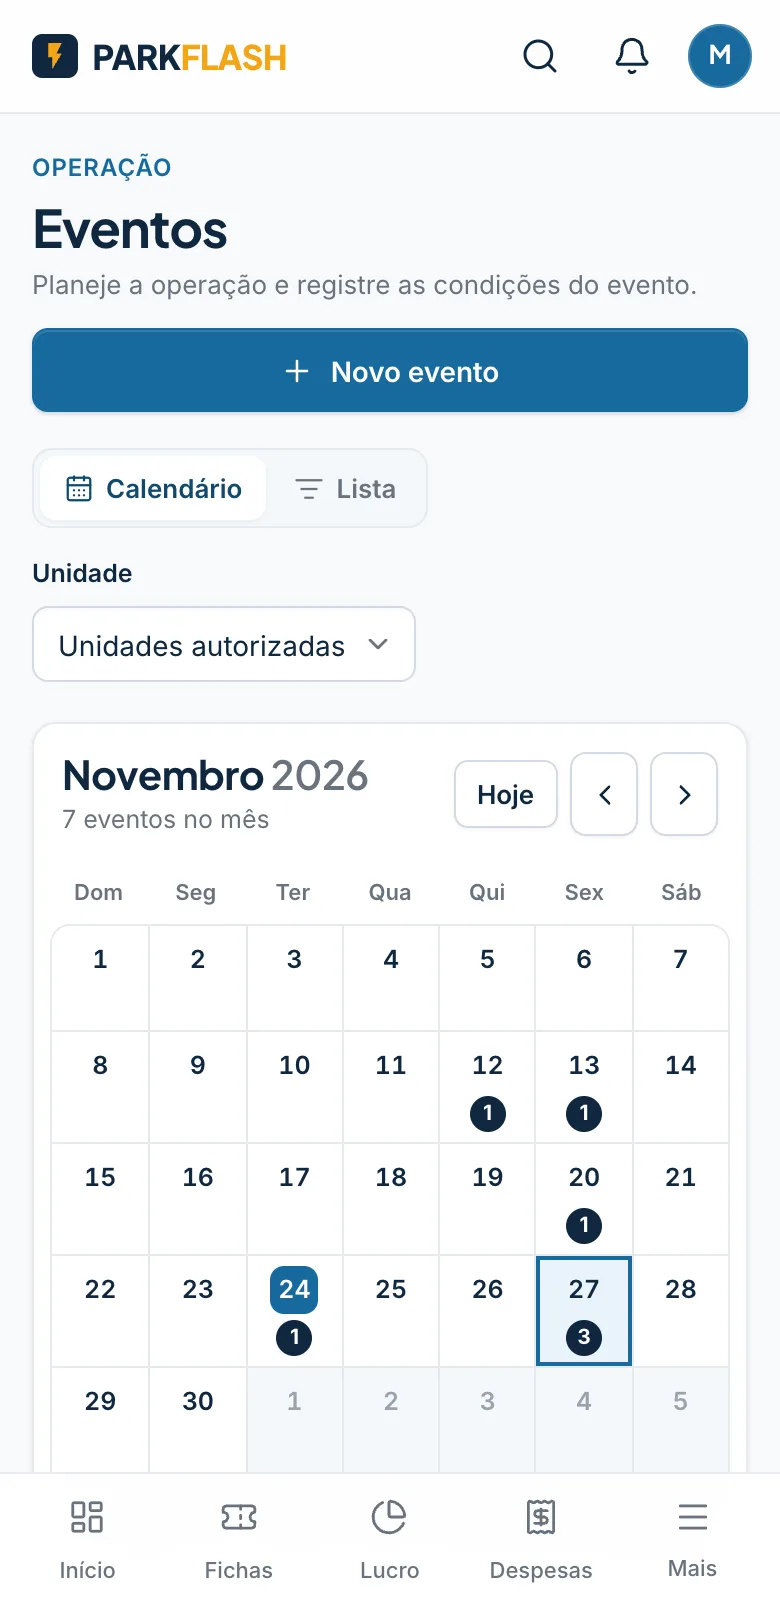
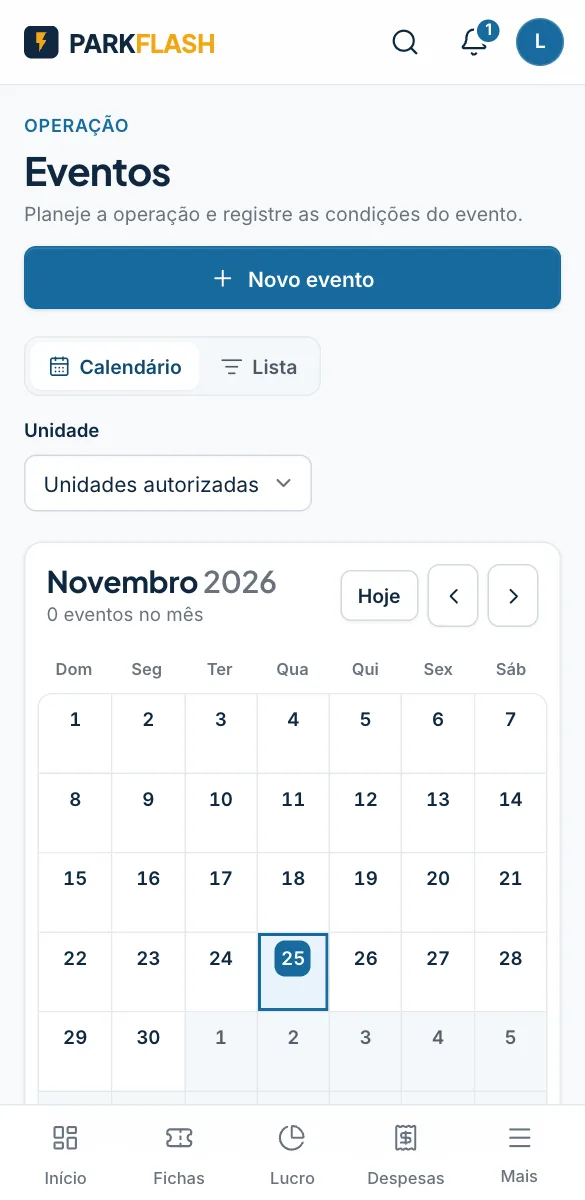
Apresentação: faixa de celulares e celular fixo no "Como funciona"
- logo abaixo do título, uma faixa de celulares com telas reais do Park Flash
  passando devagar (pausa ao passar o mouse; parada com "reduzir movimento")
- no "Como funciona", o celular fica fixo ao lado enquanto a página rola e troca
  de tela a cada etapa (lançar, conferir, fechar, pagar); no celular, cada etapa
  mostra a própria tela
- telas novas geradas do ambiente de demonstração por ferramentas/capturas-celular.mjs

diff --git a/frontend-react/src/telas/conheca/Conheca.tsx b/frontend-react/src/telas/conheca/Conheca.tsx
@@ -1,4 +1,4 @@
-import { useEffect, useLayoutEffect, useRef } from 'react';
+import { useEffect, useLayoutEffect, useRef, useState } from 'react';
 import { Link, useLocation } from 'react-router-dom';
 import { gsap } from 'gsap';
 import { ScrollTrigger } from 'gsap/ScrollTrigger';
@@ -19,11 +19,14 @@ gsap.registerPlugin(ScrollTrigger);
  * As imagens são capturas reais da interface com dados de demonstração.
  */
 const ETAPAS = [
-  { icone: 'fichas', titulo: 'Lance o turno', texto: 'O operador registra a numeração inicial e final dos tickets, os cancelados, os recebimentos em dinheiro, cartão e Pix, a equipe e as despesas do dia. O rascunho fica salvo no aparelho enquanto ele preenche.' },
-  { icone: 'enviar', titulo: 'Envie para conferência', texto: 'A ficha vai para a gestão com o saldo já calculado. Se algo não bate, a gestão devolve com o motivo ou sinaliza uma divergência.' },
-  { icone: 'sucesso', titulo: 'Feche o caixa', texto: 'Ao confirmar o fechamento, a ficha fica bloqueada para alterações e o histórico de quem fez o quê permanece registrado.' },
-  { icone: 'pagamentos', titulo: 'Pague a equipe', texto: 'As diárias reconhecidas aparecem com a chave Pix do manobrista. Você paga pelo seu banco e confirma no sistema.' },
+  { icone: 'fichas', tela: 'celular-nova-ficha', titulo: 'Lance o turno', texto: 'O operador registra a numeração inicial e final dos tickets, os cancelados, os recebimentos em dinheiro, cartão e Pix, a equipe e as despesas do dia. O rascunho fica salvo no aparelho enquanto ele preenche.' },
+  { icone: 'enviar', tela: 'celular-conferencia', titulo: 'Envie para conferência', texto: 'A ficha vai para a gestão com o saldo já calculado. Se algo não bate, a gestão devolve com o motivo ou sinaliza uma divergência.' },
+  { icone: 'sucesso', tela: 'celular-fechamento', titulo: 'Feche o caixa', texto: 'Ao confirmar o fechamento, a ficha fica bloqueada para alterações e o histórico de quem fez o quê permanece registrado.' },
+  { icone: 'pagamentos', tela: 'celular-pagamentos', titulo: 'Pague a equipe', texto: 'As diárias reconhecidas aparecem com a chave Pix do manobrista. Você paga pelo seu banco e confirma no sistema.' },
 ];
+
+/** Telas reais (dados de demonstração) que passam na faixa abaixo do título. Geradas por ferramentas/capturas-celular.mjs. */
+const FAIXA = ['celular-painel', 'celular-lista', 'celular-fechamento', 'celular-calendario', 'celular-lucro', 'celular-pagamentos', 'celular-sociedade', 'celular-nova-ficha'];
 
 const PERFIS = [
   {
@@ -88,6 +91,18 @@ export default function Conheca() {
   const logado = useAuth((s) => s.usuario?.nivel ?? null);
   const destino = logado ? rotaInicial(logado) : '/login';
   const rotuloEntrar = logado ? 'Abrir o sistema' : 'Entrar';
+  // Etapa do "Como funciona" que está no meio da tela: o celular fixo mostra a tela dela.
+  const [etapaAtiva, setEtapaAtiva] = useState(0);
+
+  useEffect(() => {
+    const etapas = [...(raiz.current?.querySelectorAll<HTMLElement>('.fluxo__etapa') ?? [])];
+    if (!etapas.length || !('IntersectionObserver' in window)) return;
+    const observador = new IntersectionObserver((entradas) => {
+      entradas.forEach((e) => { if (e.isIntersecting) setEtapaAtiva(etapas.indexOf(e.target as HTMLElement)); });
+    }, { rootMargin: '-45% 0px -45% 0px' });
+    etapas.forEach((e) => observador.observe(e));
+    return () => observador.disconnect();
+  }, []);
 
   // Links do menu (/#recursos) levam até a seção.
   useEffect(() => {
@@ -157,25 +172,49 @@ export default function Conheca() {
             </div>
           </section>
 
+          <section className="faixa" aria-hidden="true">
+            <div className="faixa__trilho">
+              {[...FAIXA, ...FAIXA].map((tela, i) => (
+                <figure key={`${tela}-${i}`} className="faixa__celular">
+                  <img src={`/midia/conheca/${tela}.webp`} width={390} height={800} loading="lazy" alt="" />
+                </figure>
+              ))}
+            </div>
+          </section>
+
           <section id="como-funciona" className="secao fluxo" data-revelar>
             <div className="secao__cabeca" data-item>
               <p className="sobre">Como funciona</p>
               <h2>Do turno ao fechamento, sem planilha paralela</h2>
               <p>Cada etapa tem um responsável e fica registrada, para que o caixa feche com segurança.</p>
             </div>
-            <ol className="fluxo__lista">
-              <span className="fluxo__linha" aria-hidden="true"><span className="fluxo__linha-progresso" /></span>
-              {ETAPAS.map((etapa, i) => (
-                <li key={etapa.titulo} className="fluxo__etapa" data-item>
-                  <span className="fluxo__numero"><Icone nome={etapa.icone} tamanho={18} /></span>
-                  <div>
-                    <p className="fluxo__passo">Etapa {i + 1}</p>
-                    <h3>{etapa.titulo}</h3>
-                    <p>{etapa.texto}</p>
-                  </div>
-                </li>
-              ))}
-            </ol>
+            <div className="fluxo__corpo">
+              <ol className="fluxo__lista">
+                <span className="fluxo__linha" aria-hidden="true"><span className="fluxo__linha-progresso" /></span>
+                {ETAPAS.map((etapa, i) => (
+                  <li key={etapa.titulo} className={`fluxo__etapa${i === etapaAtiva ? ' fluxo__etapa--ativa' : ''}`}>
+                    <span className="fluxo__numero"><Icone nome={etapa.icone} tamanho={18} /></span>
+                    <div>
+                      <p className="fluxo__passo">Etapa {i + 1}</p>
+                      <h3>{etapa.titulo}</h3>
+                      <p>{etapa.texto}</p>
+                      <figure className="fluxo__tela-movel" aria-hidden="true">
+                        <img src={`/midia/conheca/${etapa.tela}.webp`} width={390} height={800} loading="lazy" alt="" />
+                      </figure>
+                    </div>
+                  </li>
+                ))}
+              </ol>
+              <div className="fluxo__palco" aria-hidden="true">
+                <figure className="fluxo__celular">
+                  {ETAPAS.map((etapa, i) => (
+                    <img key={etapa.tela} src={`/midia/conheca/${etapa.tela}.webp`} width={390} height={800} loading="lazy" alt=""
+                      className={i === etapaAtiva ? 'fluxo__tela fluxo__tela--ativa' : 'fluxo__tela'} />
+                  ))}
+                </figure>
+                <p className="fluxo__legenda">Etapa {etapaAtiva + 1} de {ETAPAS.length} · {ETAPAS[etapaAtiva].titulo}</p>
+              </div>
+            </div>
           </section>
 
           <section className="secao perfis" data-revelar>

diff --git a/frontend-react/src/telas/conheca/conheca.scss b/frontend-react/src/telas/conheca/conheca.scss
@@ -144,7 +144,80 @@ pf-conheca {
     > p:not(.sobre) { margin-top: 14px; font-size: 16px; line-height: 1.6; color: var(--pf-text-muted); }
   }
 
+  /* Faixa de celulares (telas reais passando devagar) -------------------------- */
+  .faixa {
+    overflow: hidden;
+    padding: 8px 0 24px;
+    -webkit-mask-image: linear-gradient(90deg, transparent, #000 7%, #000 93%, transparent);
+    mask-image: linear-gradient(90deg, transparent, #000 7%, #000 93%, transparent);
+  }
+  .faixa__trilho {
+    display: flex;
+    gap: 22px;
+    width: max-content;
+    padding: 18px 0 30px;
+    animation: faixa-passa 70s linear infinite;
+  }
+  .faixa:hover .faixa__trilho { animation-play-state: paused; }
+  .faixa__celular {
+    flex: none;
+    width: 190px;
+    margin: 0;
+    padding: 6px;
+    border-radius: 26px;
+    background: var(--pf-navy);
+    box-shadow: 0 22px 44px rgba(16, 40, 63, .18);
+    img { display: block; width: 100%; height: auto; border-radius: 20px; }
+    &:nth-child(even) { transform: translateY(18px); }
+  }
+  /* metade do trilho + metade do espaço: as telas repetidas encaixam sem salto */
+  @keyframes faixa-passa { to { transform: translateX(calc(-50% - 11px)); } }
+
   /* Fluxo ------------------------------------------------------------------- */
+  .fluxo__corpo {
+    display: grid;
+    grid-template-columns: minmax(0, 1fr) 300px;
+    gap: 72px;
+    align-items: start;
+  }
+  .fluxo__corpo .fluxo__lista { gap: 0; }
+  .fluxo__etapa {
+    min-height: 46vh;
+    align-items: flex-start;
+    opacity: .5;
+    transition: opacity var(--pf-dur-base) ease;
+    &--ativa { opacity: 1; }
+  }
+  .fluxo__palco { position: sticky; top: calc(50vh - 290px); }
+  .fluxo__celular {
+    position: relative;
+    margin: 0;
+    padding: 7px;
+    border-radius: 34px;
+    background: var(--pf-navy);
+    box-shadow: 0 34px 70px rgba(16, 40, 63, .25);
+    aspect-ratio: 390 / 800;
+  }
+  .fluxo__tela {
+    position: absolute;
+    inset: 7px;
+    width: calc(100% - 14px);
+    height: calc(100% - 14px);
+    object-fit: cover;
+    border-radius: 27px;
+    opacity: 0;
+    transform: translateY(10px) scale(.98);
+    transition: opacity .45s ease, transform .45s var(--pf-ease-out);
+    &--ativa { opacity: 1; transform: none; }
+  }
+  .fluxo__legenda { margin-top: 14px; text-align: center; font-size: 13px; font-weight: 600; color: var(--pf-blue); }
+  .fluxo__tela-movel { display: none; }
+
+  @media (prefers-reduced-motion: reduce) {
+    .faixa__trilho { animation: none; }
+    .fluxo__tela { transition: opacity .2s linear; transform: none; }
+  }
+
   .fluxo__lista {
     position: relative;
     display: grid;
@@ -398,6 +471,21 @@ pf-conheca {
     .heroi h1 { font-size: 40px; }
     .heroi__sub { font-size: 16px; }
     .heroi__celular { right: -6px; bottom: -70px; width: 38%; }
+    .faixa__celular { width: 140px; border-radius: 20px; padding: 5px; img { border-radius: 15px; } }
+    .fluxo__corpo { grid-template-columns: 1fr; gap: 0; }
+    .fluxo__palco { display: none; }
+    .fluxo__etapa { min-height: 0; opacity: 1; }
+    .fluxo__corpo .fluxo__lista { gap: 40px; }
+    .fluxo__tela-movel {
+      display: block;
+      width: min(220px, 62vw);
+      margin: 18px 0 0;
+      padding: 5px;
+      border-radius: 24px;
+      background: var(--pf-navy);
+      box-shadow: 0 20px 40px rgba(16, 40, 63, .18);
+      img { display: block; width: 100%; height: auto; border-radius: 19px; }
+    }
     .secao { padding: 64px 0; }
     .recursos__grade { grid-template-columns: 1fr; }
     .celular { grid-template-columns: 1fr; }
